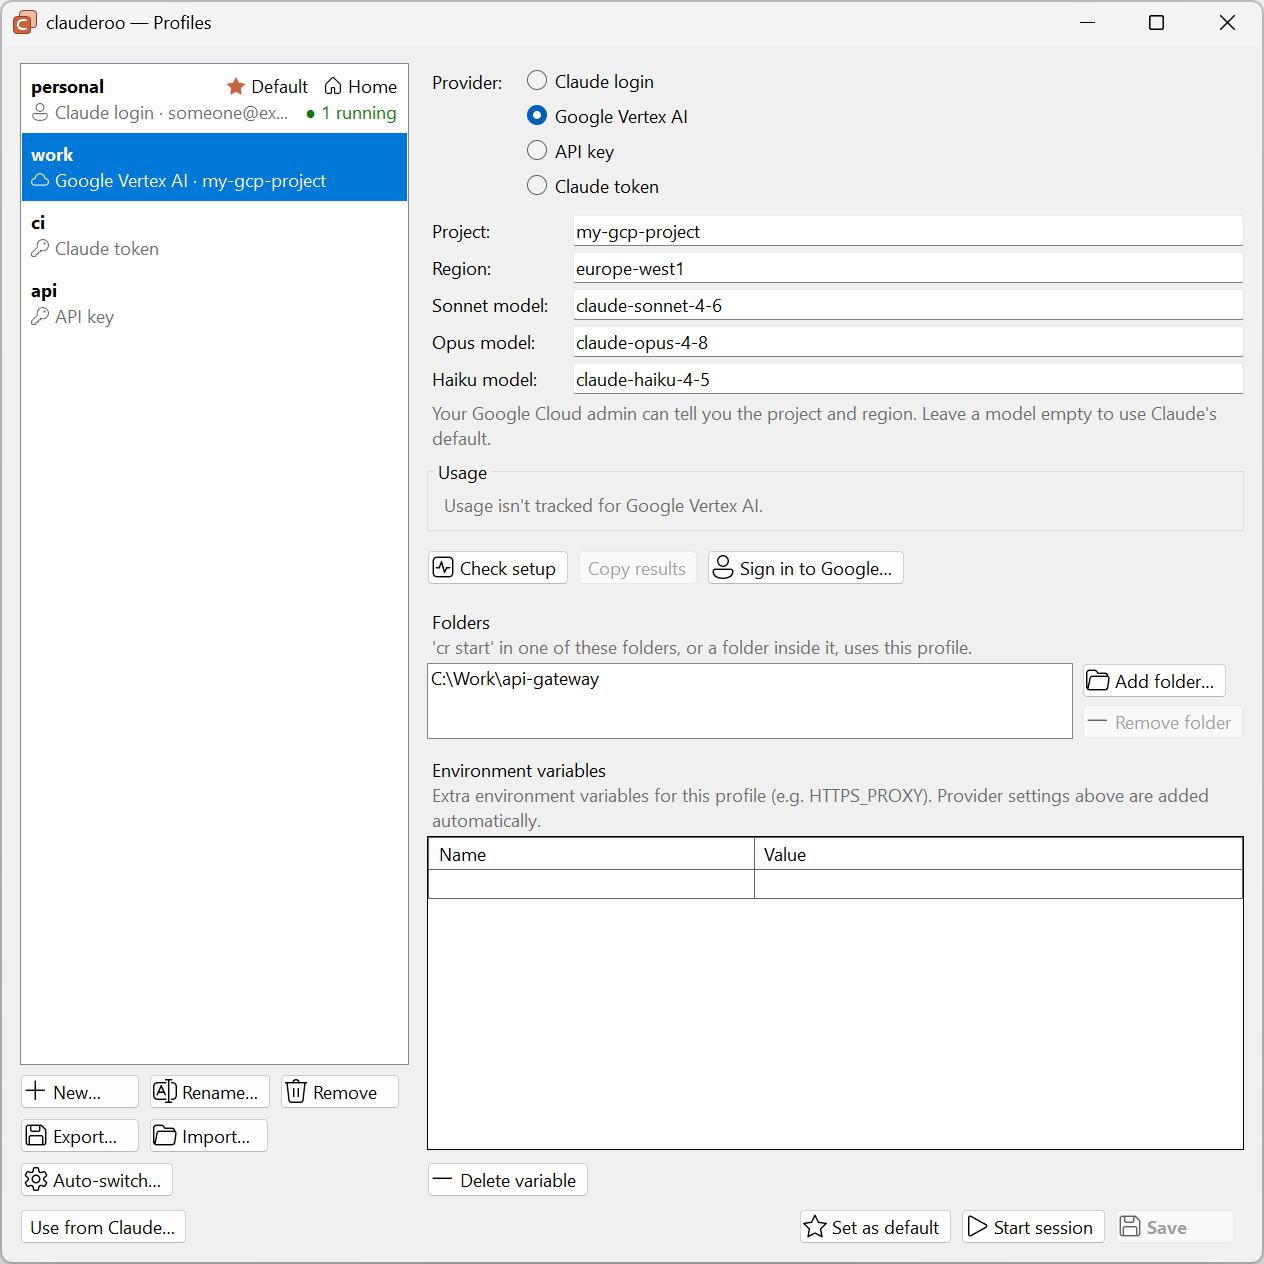
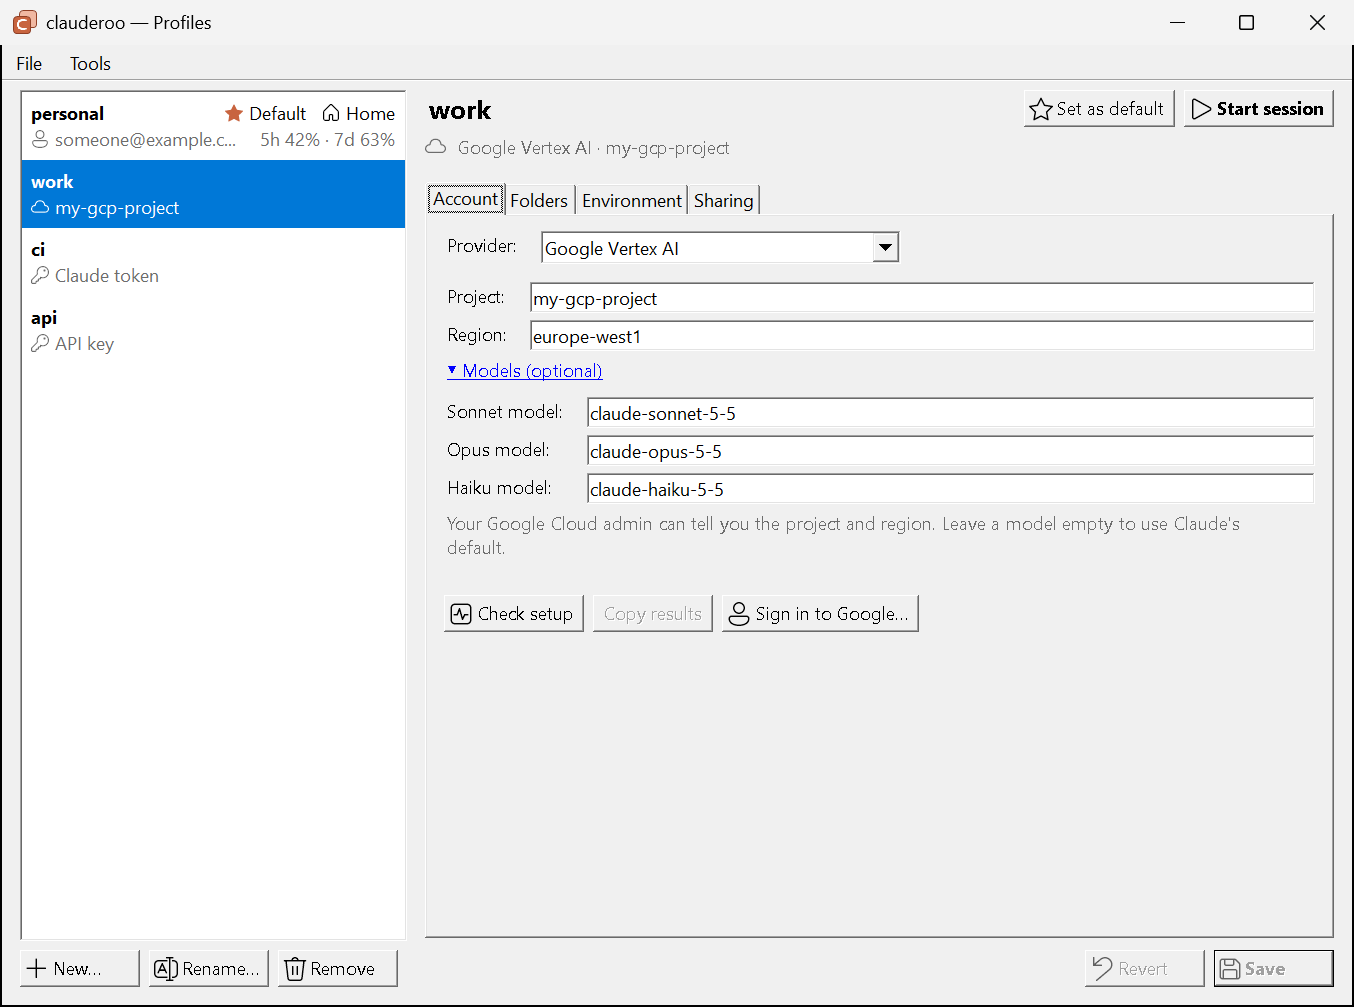
docs: new README screenshots; show the app version (#17)
- Version: last line of the tray's Settings submenu, and Tools > About
  clauderoo in the profile manager (version and the GitHub repo).
- Screenshots re-rendered from sample data at full scaling, one window at a
  time with PrintWindow: profiles-window, profiles-vertex,
  check-setup-progress, tray-menu. Alt text updated.
- A setup check's list folds the Vertex model fields away, so the Account
  tab doesn't get a scrollbar around the list's own (seen while rendering).
- The header's running count matches the list: '1 running'.

diff --git a/src/Clauderoo.Tray/ProfilesForm.cs b/src/Clauderoo.Tray/ProfilesForm.cs
@@ -308,7 +308,9 @@ sealed class ProfilesForm : Form
         _miRename.Click += (_, _) => Guard(RenameProfile);
         _miRemove.Click += (_, _) => Guard(RemoveProfile);
         var tools = new ToolStripMenuItem("Too&ls");
-        tools.DropDownItems.AddRange([_autoSwitch, _useFromClaude]);
+        tools.DropDownItems.AddRange([_autoSwitch, _useFromClaude, new ToolStripSeparator(),
+            new ToolStripMenuItem("A&bout clauderoo", null, (_, _) => MessageBox.Show(this, TrayText.About(AppVersion.Current, AppVersion.Repo),
+                "About clauderoo", MessageBoxButtons.OK, MessageBoxIcon.Information))]);
         _menu.Items.AddRange([file, tools]);
         _menu.ShowItemToolTips = true;
         foreach (var dd in new[] { file, tools }) dd.DropDown.ShowItemToolTips = true;
@@ -1145,7 +1147,7 @@ sealed class ProfilesForm : Form
         if (TrayText.Account(info) is { } a) parts.Add(a);
         if (info.IsDefault) parts.Add("default");
         if (info.IsHome) parts.Add("home");
-        if (_running.TryGetValue(info.Name, out var n) && n > 0) parts.Add(TrayText.Running(n));
+        if (_running.TryGetValue(info.Name, out var n) && n > 0) parts.Add($"● {n} running"); // as in the list
         _headDetail.Show(ProviderGlyph(info.IsHome ? Providers.Login : info.Provider), SystemColors.GrayText, string.Join(" · ", parts));
     }
 
@@ -1715,6 +1717,14 @@ sealed class ProfilesForm : Form
     private void ShowCheckList(IReadOnlyList<CheckItem>? items, bool live = false)
     {
         var show = items is { Count: > 0 } && _current != null && !_currentIsHome;
+        // The check list needs the room: fold the optional model names away (one click brings them back), so the
+        // Account tab doesn't get a scrollbar around the list's own.
+        if (show && !_checkList.Visible && _modelsOpen)
+        {
+            _modelsOpen = false;
+            _modelsPanel.Visible = false;
+            _modelsToggle.Text = "▸ Models (optional)";
+        }
         if (show) _checkList.SetItems(items!, live);
         if (_checkList.Visible == show) return;
         _checkList.Visible = show;

diff --git a/tests/Clauderoo.Core.Tests/TrayTerminalMenuTests.cs b/tests/Clauderoo.Core.Tests/TrayTerminalMenuTests.cs
@@ -160,7 +160,19 @@ public class TrayTerminalMenuTests
         var trouble = items.FindIndex(i => i.Text == "Troubleshoot");
         Assert.True(trouble > 0);
         Assert.IsType<ToolStripSeparator>(items[trouble - 1]);
-        Assert.Equal(new[] { "&Check this PC…", "&Open profiles folder" }, items.Skip(trouble + 1).Select(i => i.Text));
+        Assert.Equal(new[] { "&Check this PC…", "&Open profiles folder" }, items.Skip(trouble + 1).Take(2).Select(i => i.Text));
+        // Last: the version, after a separator, as plain text.
+        Assert.IsType<ToolStripSeparator>(items[^2]);
+        Assert.Equal("clauderoo " + AppVersion.Current, items[^1].Text);
+        Assert.False(items[^1].Enabled);
+    }
+
+    [Fact]
+    public void About_ShowsTheVersion_AndWhereItComesFrom()
+    {
+        Assert.StartsWith("clauderoo 1.2.3\n", TrayText.About("1.2.3", "me/clauderoo"));
+        Assert.EndsWith("https://github.com/me/clauderoo", TrayText.About("1.2.3", "me/clauderoo"));
+        Assert.Contains("wasn't made from a GitHub release", TrayText.About("0.0.0-dev", null));
     }
 
     [Fact]

diff --git a/src/Clauderoo.Tray/TrayText.cs b/src/Clauderoo.Tray/TrayText.cs
@@ -69,6 +69,14 @@ internal static class TrayText
     /// <summary>Menu label (not yet &amp;-escaped): "work · my-proj", "personal · someone@example.com", "ci · API key".</summary>
     public static string ProfileLabel(ProfileInfo p) => p.Name + " · " + ShortDescribe(p);
 
+    /// <summary>The version line at the end of the tray's Settings submenu: "clauderoo 0.4.0".</summary>
+    public static string VersionLine(string version) => $"clauderoo {version}";
+
+    /// <summary>The About box in the Profiles window.</summary>
+    public static string About(string version, string? repo) =>
+        $"clauderoo {version}\n\nRun Claude Code under several accounts on Windows, side by side." +
+        (string.IsNullOrEmpty(repo) ? "\n\nThis build wasn't made from a GitHub release." : $"\n\nhttps://github.com/{repo}");
+
     /// <summary>The menu's first action: "Start personal".</summary>
     public static string StartDefault(string name) => $"&Start {name}";
 

diff --git a/src/Clauderoo.Tray/TrayMenu.cs b/src/Clauderoo.Tray/TrayMenu.cs
@@ -166,6 +166,11 @@ internal static class TrayMenu
         var folder = Item("&Open profiles folder", Neutral(Glyph.Folder, dpi), a.OpenProfilesFolder);
         folder.ToolTipText = "Changes made in these folders may be overwritten by sync.";
         advanced.DropDownItems.Add(folder);
+        advanced.DropDownItems.Add(new ToolStripSeparator());
+        advanced.DropDownItems.Add(new ToolStripMenuItem(TrayText.VersionLine(AppVersion.Current))
+        {
+            Enabled = false, AccessibleRole = AccessibleRole.StaticText,
+        });
         items.Add(advanced);
 
         items.Add(new ToolStripSeparator());

diff --git a/README.md b/README.md
@@ -59,17 +59,17 @@ clauderoo gives each account its own **profile**, a separate config folder with 
 ## Screenshots
 
 <p align="center">
-  <img src="docs/images/profiles-window.png" width="640" alt="Profiles window with the home profile selected, showing its usage bars, plan and mapped folders"><br>
+  <img src="docs/images/profiles-window.png" width="640" alt="Profiles window with the home profile selected: a header with its account, usage bars and Start session, then Account, Folders and Sharing tabs; the list shows each profile's account and usage"><br>
   <em>Profile manager: every profile at a glance, with the home profile's usage, plan and the folders that start it.</em>
 </p>
 
 <p align="center">
-  <img src="docs/images/profiles-vertex.png" width="640" alt="Profiles window with a Google Vertex AI profile selected, showing project, region and model fields"><br>
+  <img src="docs/images/profiles-vertex.png" width="640" alt="Profiles window with a Google Vertex AI profile selected: provider, project and region on the Account tab, with the optional model names unfolded"><br>
   <em>A Vertex profile: project, region and models, a setup check, its folders and its own environment variables.</em>
 </p>
 
 <p align="center">
-  <img src="docs/images/tray-menu.png" width="640" alt="Tray menu with the default star, usage on the home profile and its submenu open showing a running session"><br>
+  <img src="docs/images/tray-menu.png" width="640" alt="Tray menu with Start personal first, one line per profile with its account and usage, and the default profile's submenu open showing a running session and its limits"><br>
   <em>Tray menu: one entry per profile, with its provider, account, usage, default marker and running sessions.</em>
 </p>
 
@@ -352,7 +352,7 @@ If you accept a model update from inside Claude (for example, moving Opus to a n
 The checks run in parallel and the list updates as each one finishes. Each line is marked ✓ ok, ⚠ warning, ✗ failed or – skipped, with a hint on how to fix it. The exit code is 1 only if something failed.
 
 <p align="center">
-  <img src="docs/images/check-setup-progress.png" width="560" alt="Check setup running with live progress">
+  <img src="docs/images/check-setup-progress.png" width="560" alt="Check setup running on the Account tab, with each check filling in as it finishes">
 </p>
 
 ### Checking keys and tokens

diff --git a/CHANGELOG.md b/CHANGELOG.md
@@ -4,6 +4,13 @@ All notable changes are listed here. The format follows [Keep a Changelog](https
 
 ## [Unreleased]
 
+### Added
+- The version shows at the bottom of the tray's **Settings** submenu, and in **Tools › About clauderoo** in the profile manager.
+
+### Changed
+- When a setup check's list appears, the Vertex model fields fold away so the Account tab doesn't scroll around the list.
+- README screenshots show the new profile manager and tray menu.
+
 ## [0.4.0] - 2026-11-19
 
 ### Changed
